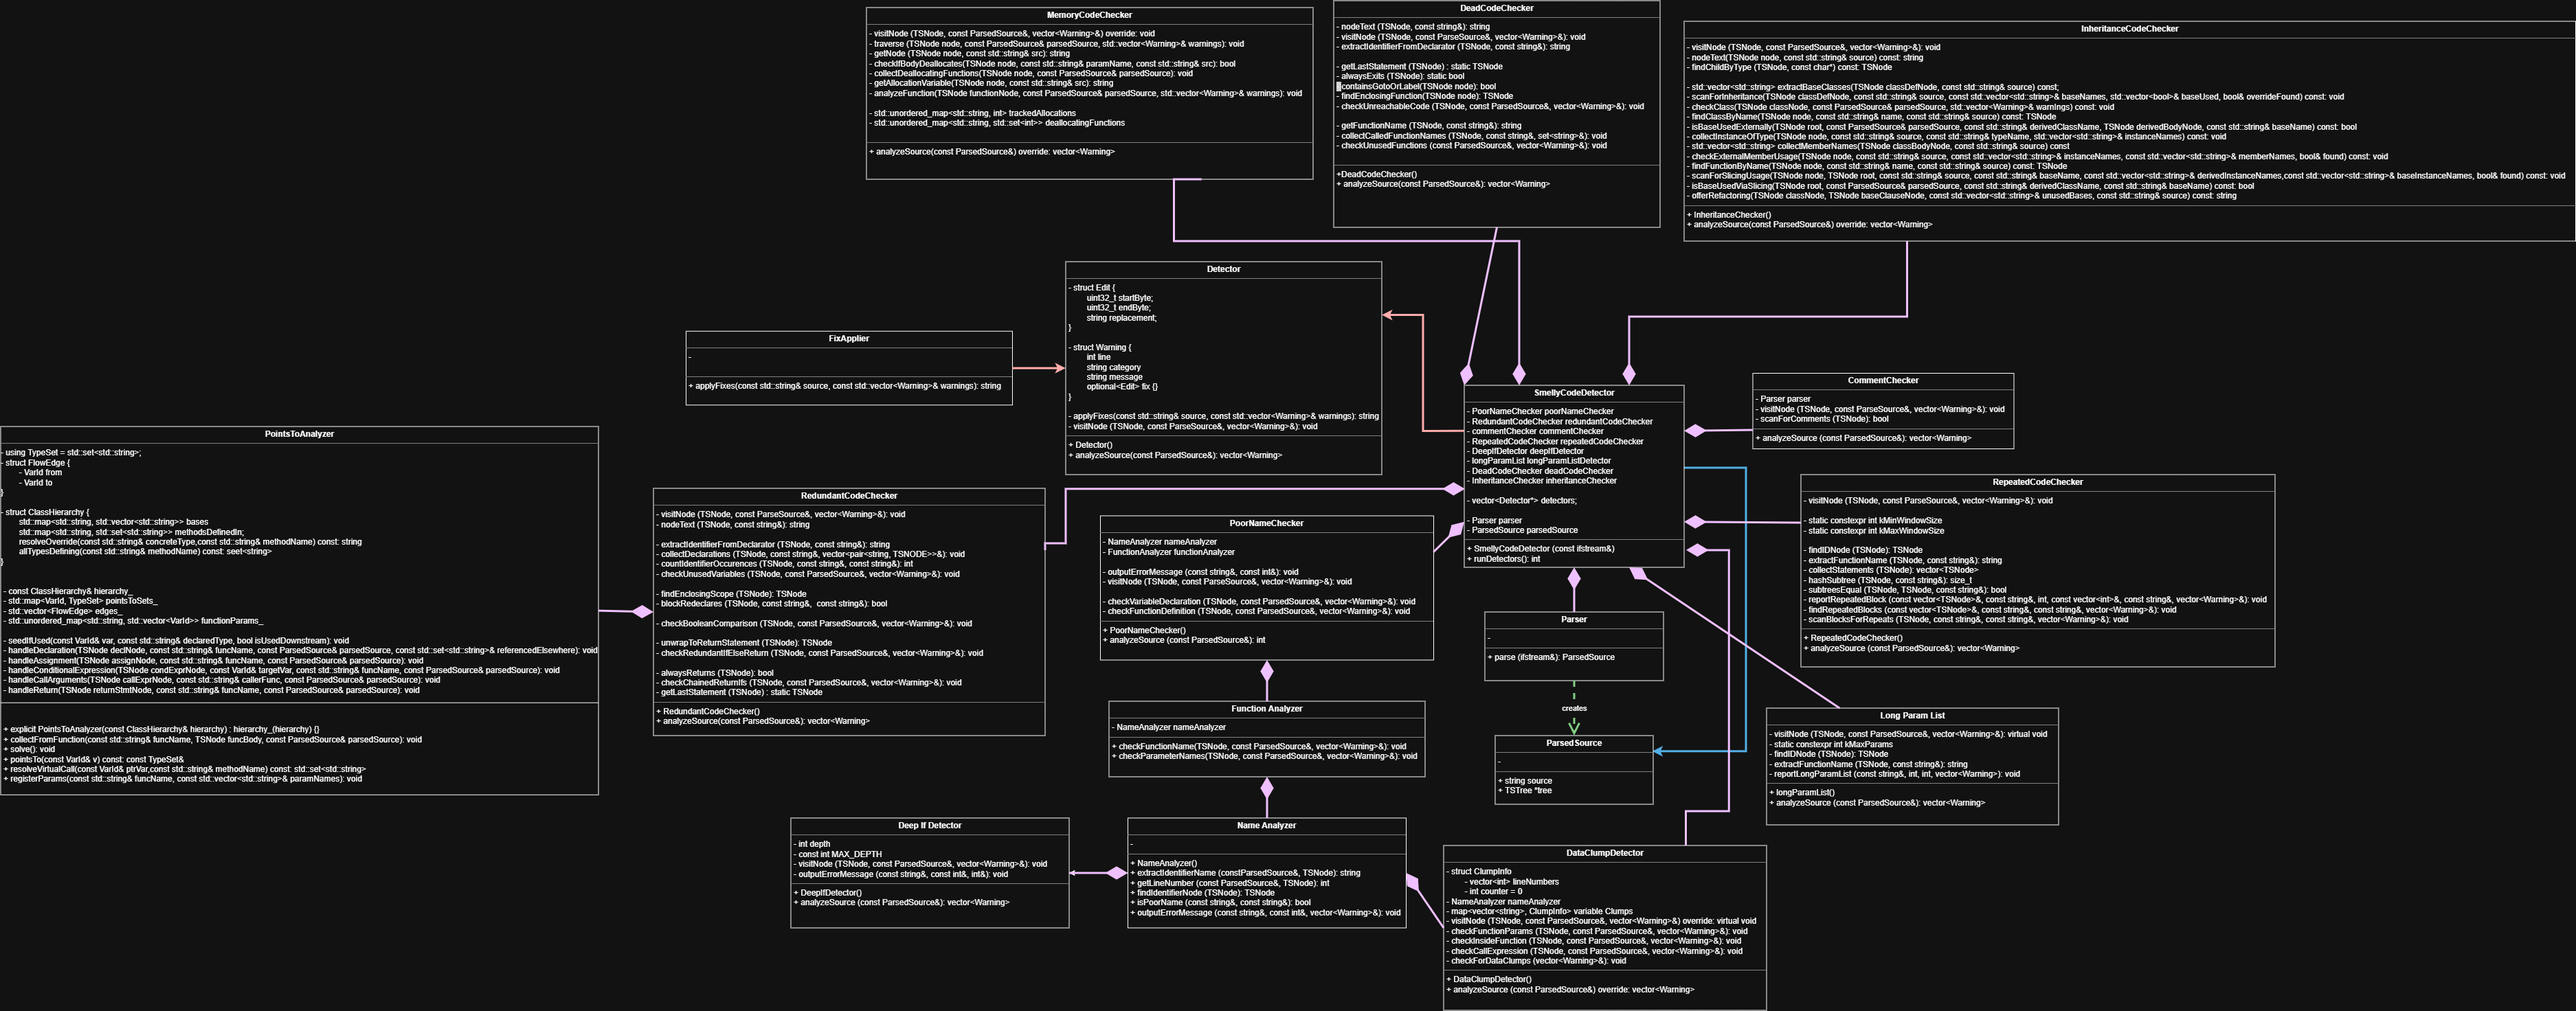
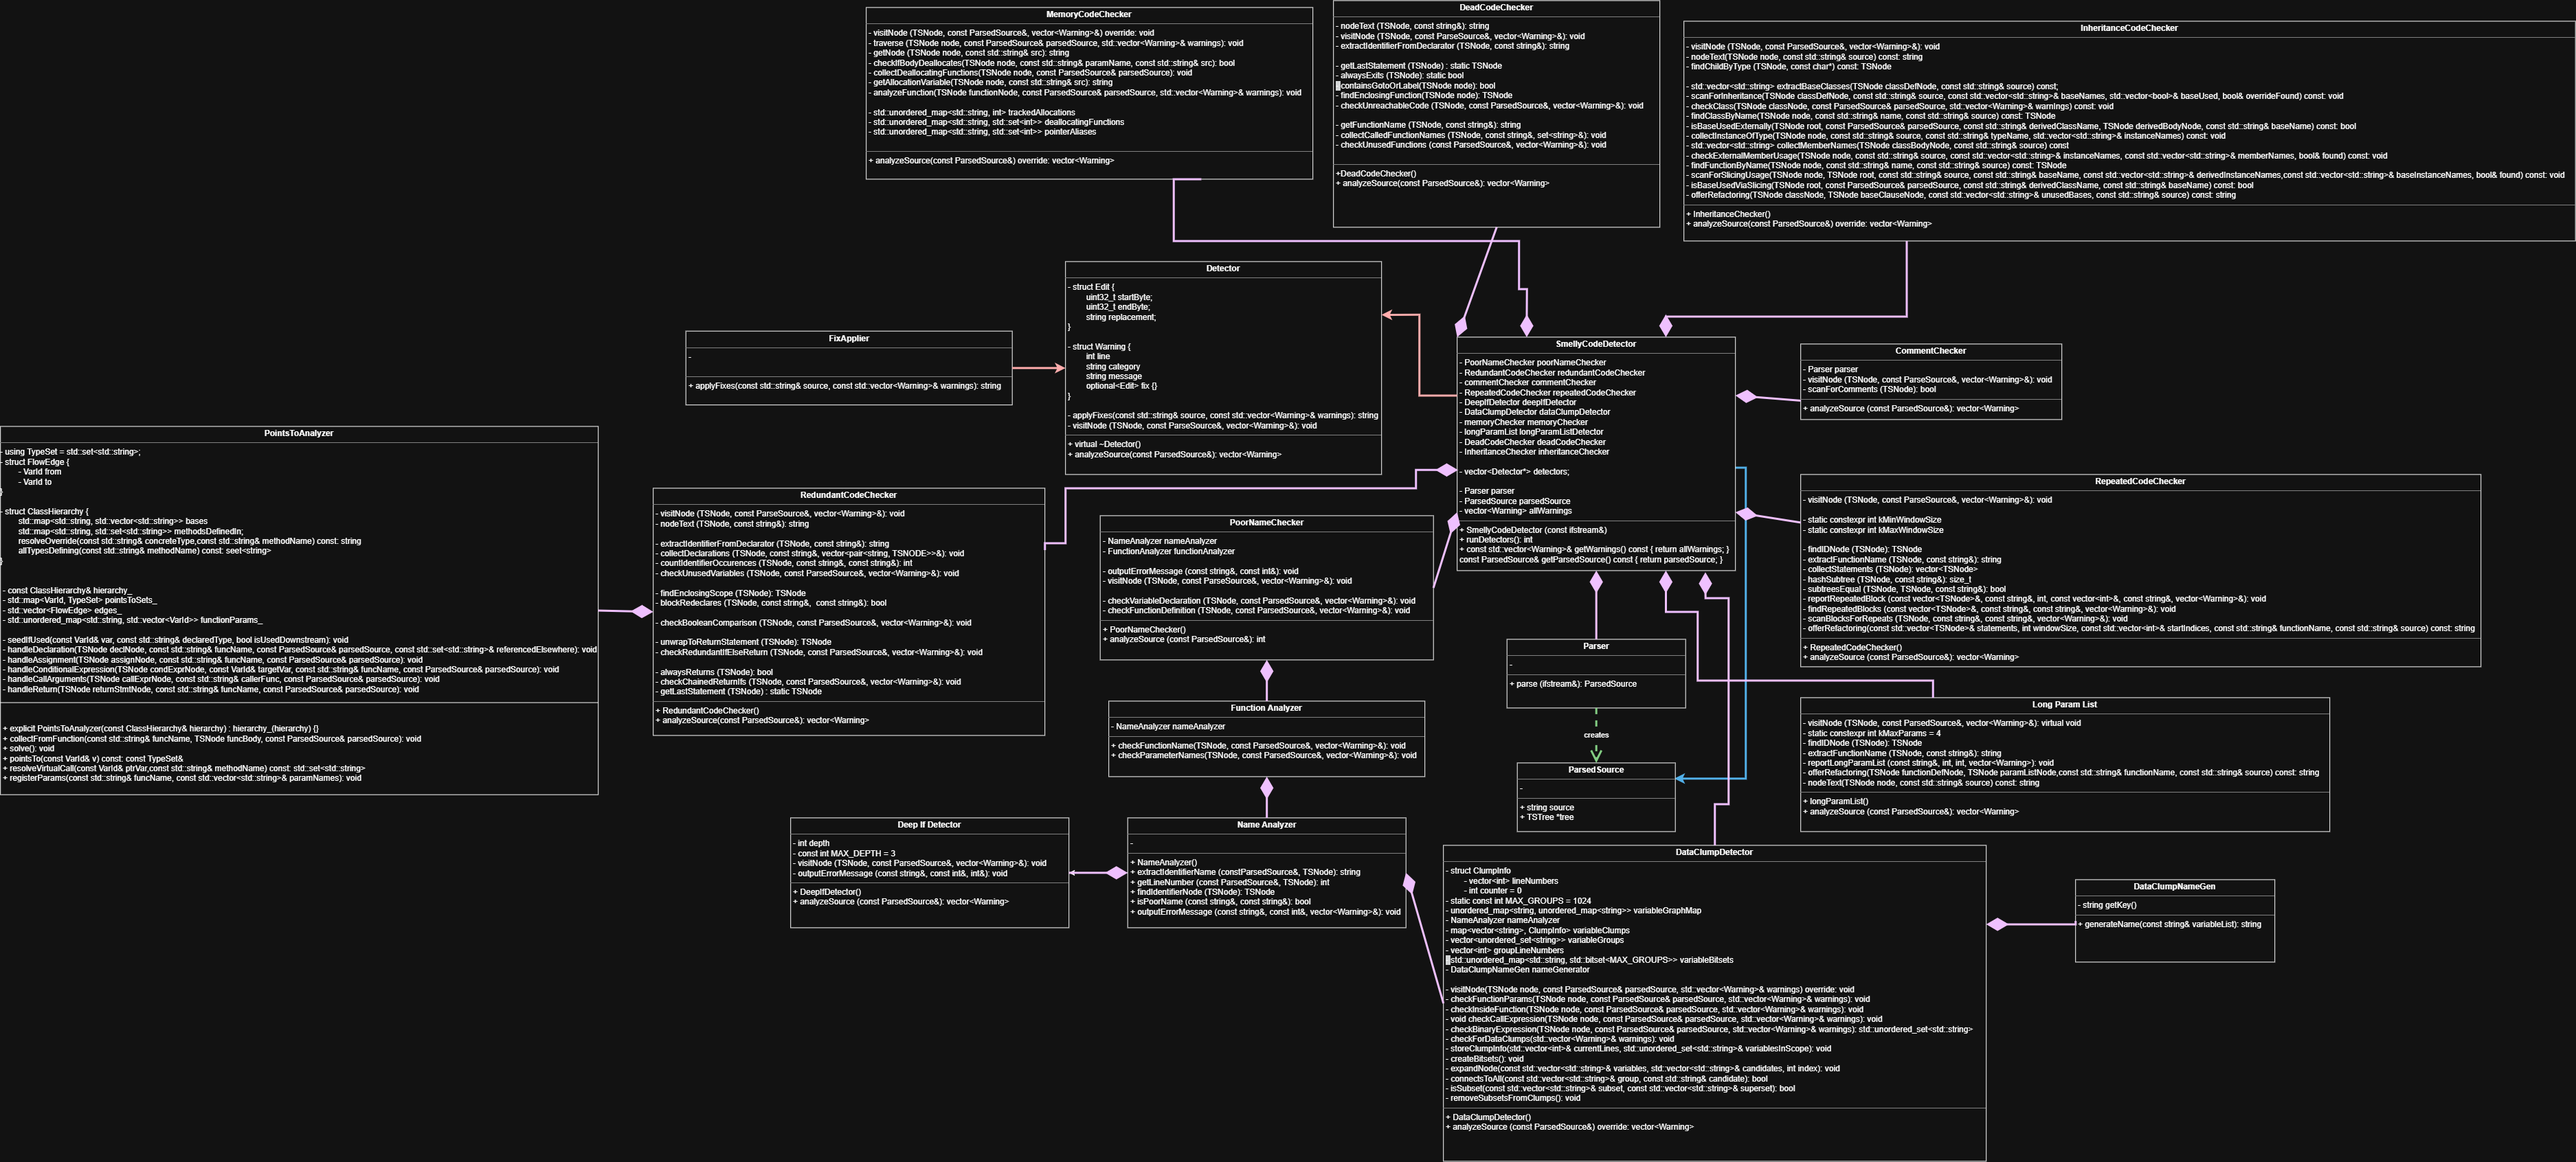
revised tutorial, diagram, major modules

diff --git a/index.html b/index.html
@@ -76,6 +76,7 @@
             <li>A C++17 compiler — on Windows, Visual Studio 2022 (Community is free) with the "Desktop development with C++" workload, which provides MSVC and the generator CMake targets.</li>
             <li>Git — needed to pull in the tree-sitter runtime and grammar, which are vendored as submodules under <code>tree-sitter/</code> and <code>tree-sitter-cpp/</code>.</li>
             <li>Internet access during the first CMake configure if <code>nlohmann/json</code> must be downloaded. The vendored <code>libcurl</code> library is built automatically by the project.</li>
+            <li>Account for https://aistudio.google.com to create a project and API key.</li>  
           </ul>
         </div>
       </li>
@@ -90,7 +91,7 @@
             <li><code>git submodule update --init --recursive</code></li>
           </ul>
           <p class="build-step-note">The submodule step is required — without it, <code>tree-sitter/</code> and <code>tree-sitter-cpp/</code> will be empty and the CMake configure step will fail with a "not an existing directory" error.</p>
-          <p class="build-step-note">For data-clump name suggestions, create a root <code>.env</code> file with <code>GOOGLE_GEMINI_API_KEY=your-api-key-here</code>. Keep this file private; it is ignored by Git. The program searches from the project root or the Windows <code>build/Debug</code> launch directory. Gemini requests use a 30-second curl timeout; HTTP or transport failures fall back to <code>DefaultName</code>, while a missing key stops name generation with an error.</p>
+          <p class="build-step-note">For data-clump name suggestions, create a root <code>.env</code> file with <code>GOOGLE_GEMINI_API_KEY=your-api-key-here</code>. After you create/name your API key and choose an imported project paste your key in the <code>.env</code> file. Keep this file private; it is ignored by Git. The program searches from the project root or the Windows <code>build/Debug</code> launch directory. Gemini requests use a 30-second curl timeout; HTTP or transport failures fall back to <code>DefaultName</code>, while a missing key stops name generation with an error.</p>
         </div>
       </li>
 
@@ -384,7 +385,7 @@ never uses it. (line 1)</pre></div>
       <p class="example-desc">A path through the function that reaches a <code>return</code> without freeing a tracked allocation.</p>
       <div class="example-io">
         <div><span class="io-label">Input</span><pre>
-          int basicTest() {
+          int basicTest(){
             int* exampleptr = new int;
             return 2;
           }
@@ -399,10 +400,11 @@ never uses it. (line 1)</pre></div>
           void partialDeleterFunction(int* one, int* two){
             delete one;
           }
+
         </pre></div>
         <div>
-          <span class="io-label">Output</span><pre><span class="t-warn">Warning:</span> [memory-leak]. Unreleased memory allocated at line 2 does not reach a destructor.(line 3)</pre>
-          <span class="io-label">Output</span><pre><span class="t-warn">Warning:</span> [memory-leak]. Unreleased memory allocated at line 8 does not reach a destructor.(line 10)</pre>
+          <span class="io-label">Output</span><pre><span class="t-warn">Warning:</span> [memory-leak]. Unreleased memory allocated at line 2 does not reach a destructor.(line 2)</pre>
+          <span class="io-label">Output</span><pre><span class="t-warn">Warning:</span> [memory-leak]. Unreleased memory allocated at line 8 does not reach a destructor.(line 8)</pre>
         </div>
       </div>
     </div>
@@ -424,7 +426,7 @@ never uses it. (line 1)</pre></div>
 
       <figure class="figure-card">
         <div class="figure-frame figure-frame-259">
-          <img src="./images/CS179KFlowDiagram.png" alt="Flow diagram of the code smell detector">
+          <img src="./images/FlowDiagram.png" alt="Flow diagram of the code smell detector">
         </div>
         <figcaption>Flow Diagram (data flow)</figcaption>
       </figure>
@@ -632,6 +634,7 @@ never uses it. (line 1)</pre></div>
           <li><code>scanBlocksForRepeats(...)</code> — recurses into <code>compound_statement</code> blocks (skipping nested functions) and runs <code>findRepeatedBlocks()</code> on each, which slides windows of decreasing size across a block's statements, keyed by hash.</li>
           <li><code>hashSubtree(...)</code> — structurally hashes a subtree so identical statements collide regardless of formatting. <code>subtreesEqual(...)</code> — full structural comparison confirming a hash match isn't a collision.</li>
           <li><code>reportRepeatedBlock(...)</code> — builds one warning listing every line range a repeated block occurs at, plus the code itself.</li>
+          <li><code>offerRefactoring(...)</code>- outputs original detected code block alongside original, turning repeated blocks into a helper function that should be looped.</li>
         </ul>
       </article>
 
@@ -647,7 +650,9 @@ never uses it. (line 1)</pre></div>
         <h3>longParamList.cpp</h3>
         <ul class="fn-list">
           <li>Flags functions whose parameter count exceeds a defined threshold.</li>
-          <li><code>visitNode(...)</code> — finds <code>function_definition</code> nodes, counts parameters, and emits a warning once the count exceeds the threshold. <code>extractFunctionName(...)</code> resolves the function's full name via <code>findIDNode()</code> for the warning message.</li>
+          <li><code>visitNode()</code> — finds <code>function_definition</code> nodes, counts parameters, and emits a warning once the count exceeds the threshold. <code>extractFunctionName(...)</code> resolves the function's full name via <code>findIDNode()</code> for the warning message.</li>
+          <li><code>offerRefactoring()</code> - outputs the refactored code alongside the original code. Offers a refactoring via using a struct to store the long list of parameters.</li>
+          <li><code>nodeText()</code> - given a TSNode, extracts and returns the text contents stored inside it. </li>
         </ul>
       </article>
 
@@ -685,9 +690,10 @@ never uses it. (line 1)</pre></div>
         <h3>memoryChecker.cpp</h3>
         <ul class="fn-list">
           <li>Flags paths where allocated memory isn't freed before a function returns — recognizing <code>delete</code>/<code>free()</code> as well as custom deallocation functions collected from elsewhere in the source.</li>
-          <li><code>analyzeSource(...)</code> — clears <code>trackedAllocations</code>, calls <code>collectDeallocatingFunctions()</code> to populate <code>deallocatingFunctions</code>, then runs <code>visitNode()</code>.</li>
+          <li><code>analyzeSource(...)</code> — clears <code>trackedAllocations</code>, loops <code>collectDeallocatingFunctions()</code> to populate <code>deallocatingFunctions</code>, then runs <code>visitNode()</code>.</li>
           <li><code>collectDeallocatingFunctions()</code> / <code>checkIfBodyDeallocates(...)</code> — pre-scan the source for functions that free one of their own parameters, so calls to them count as freeing memory too.</li>
           <li><code>traverse(...)</code> — at each <code>if</code>, branches into every possible path so both sides of a conditional are checked independently for a <code>return</code> reached with memory still allocated.</li>
+          <li><code>resolveAlias()</code> - uses <code>pointerAliases</code> (map of aliases for pointers) to trace from an alias to the original pointer name in trackedAllocations</li>
         </ul>
       </article>
 
